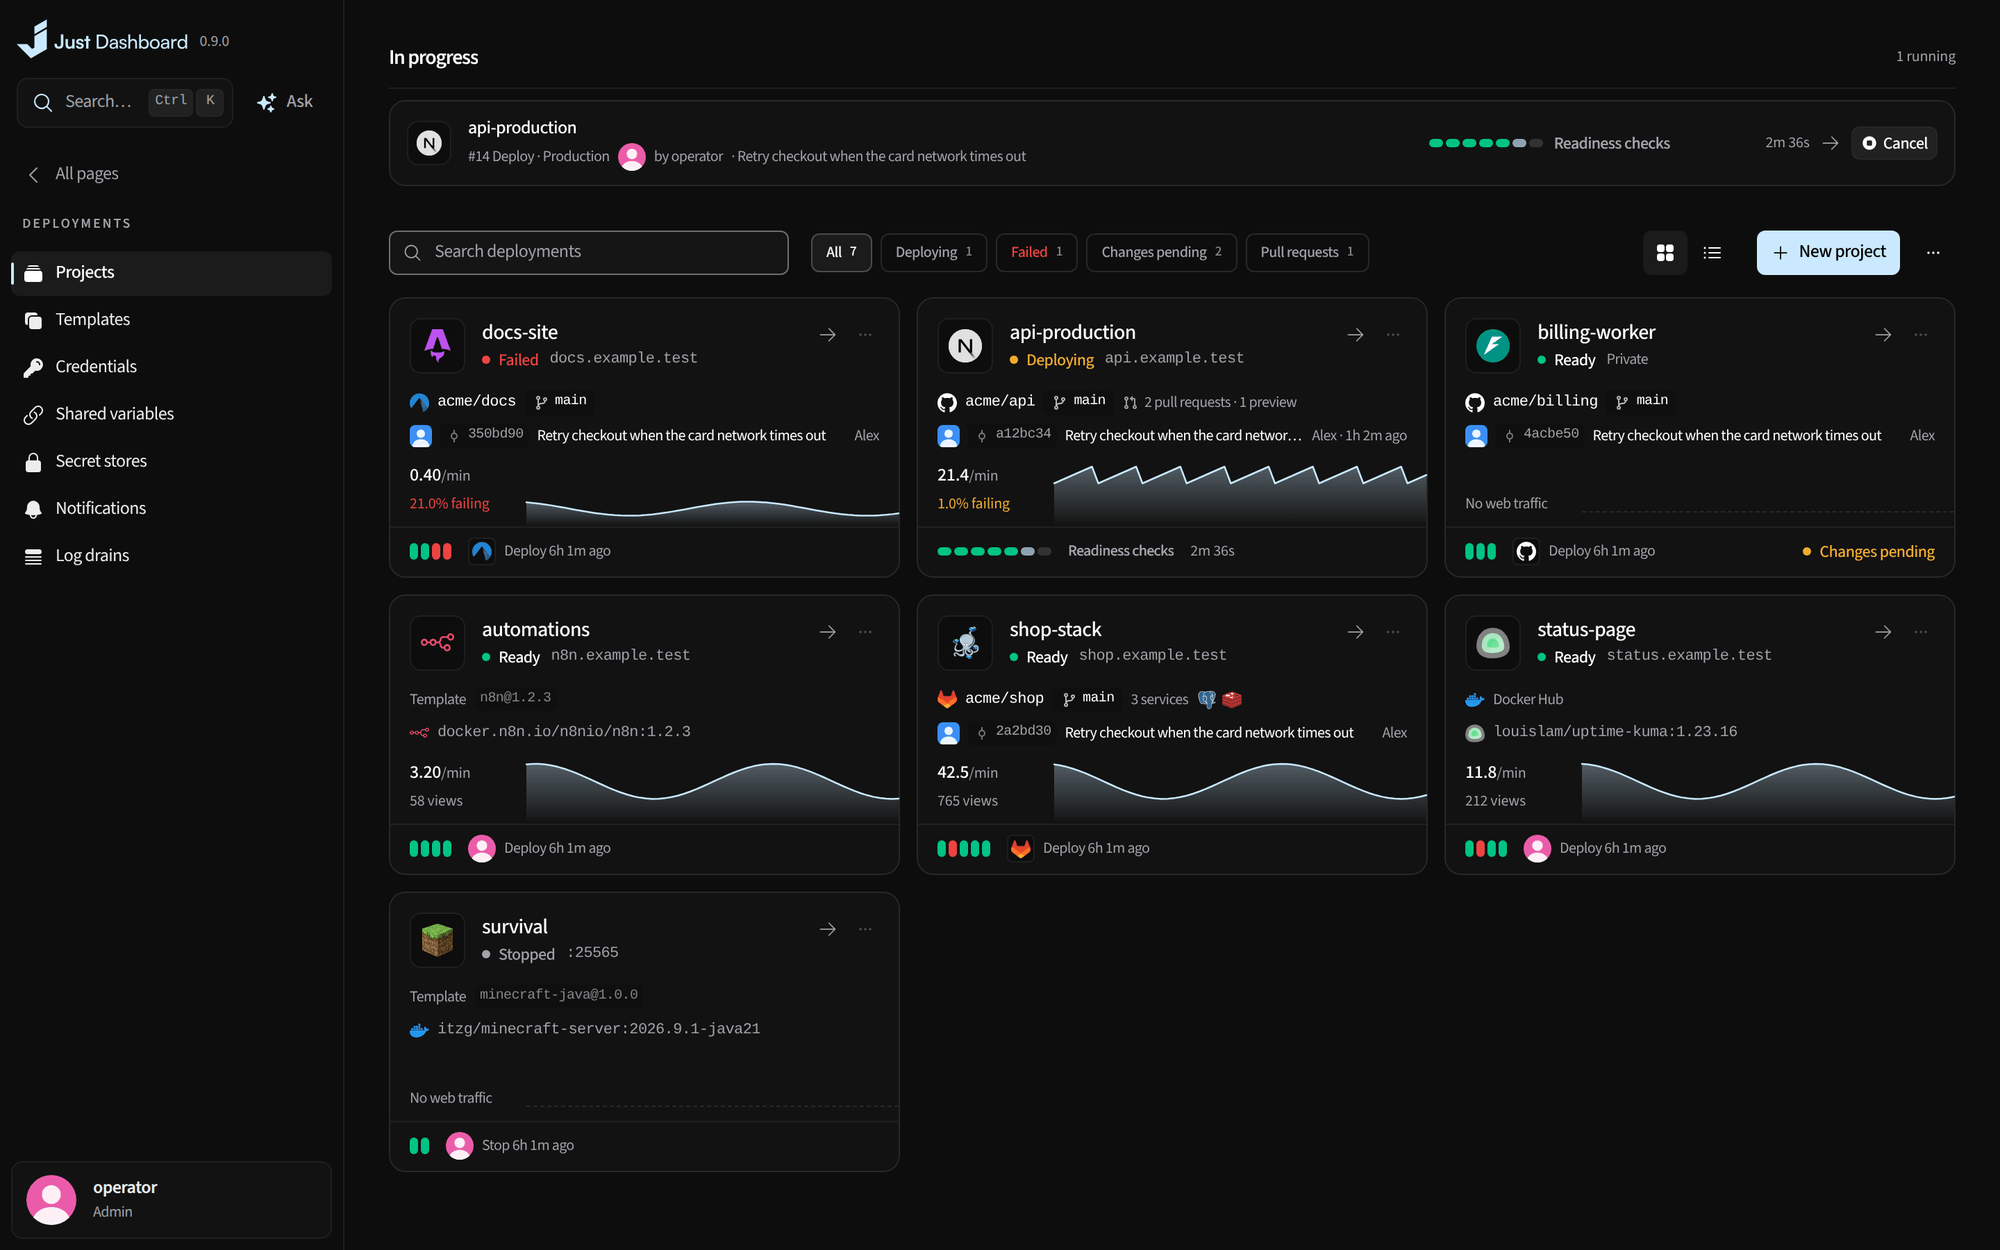
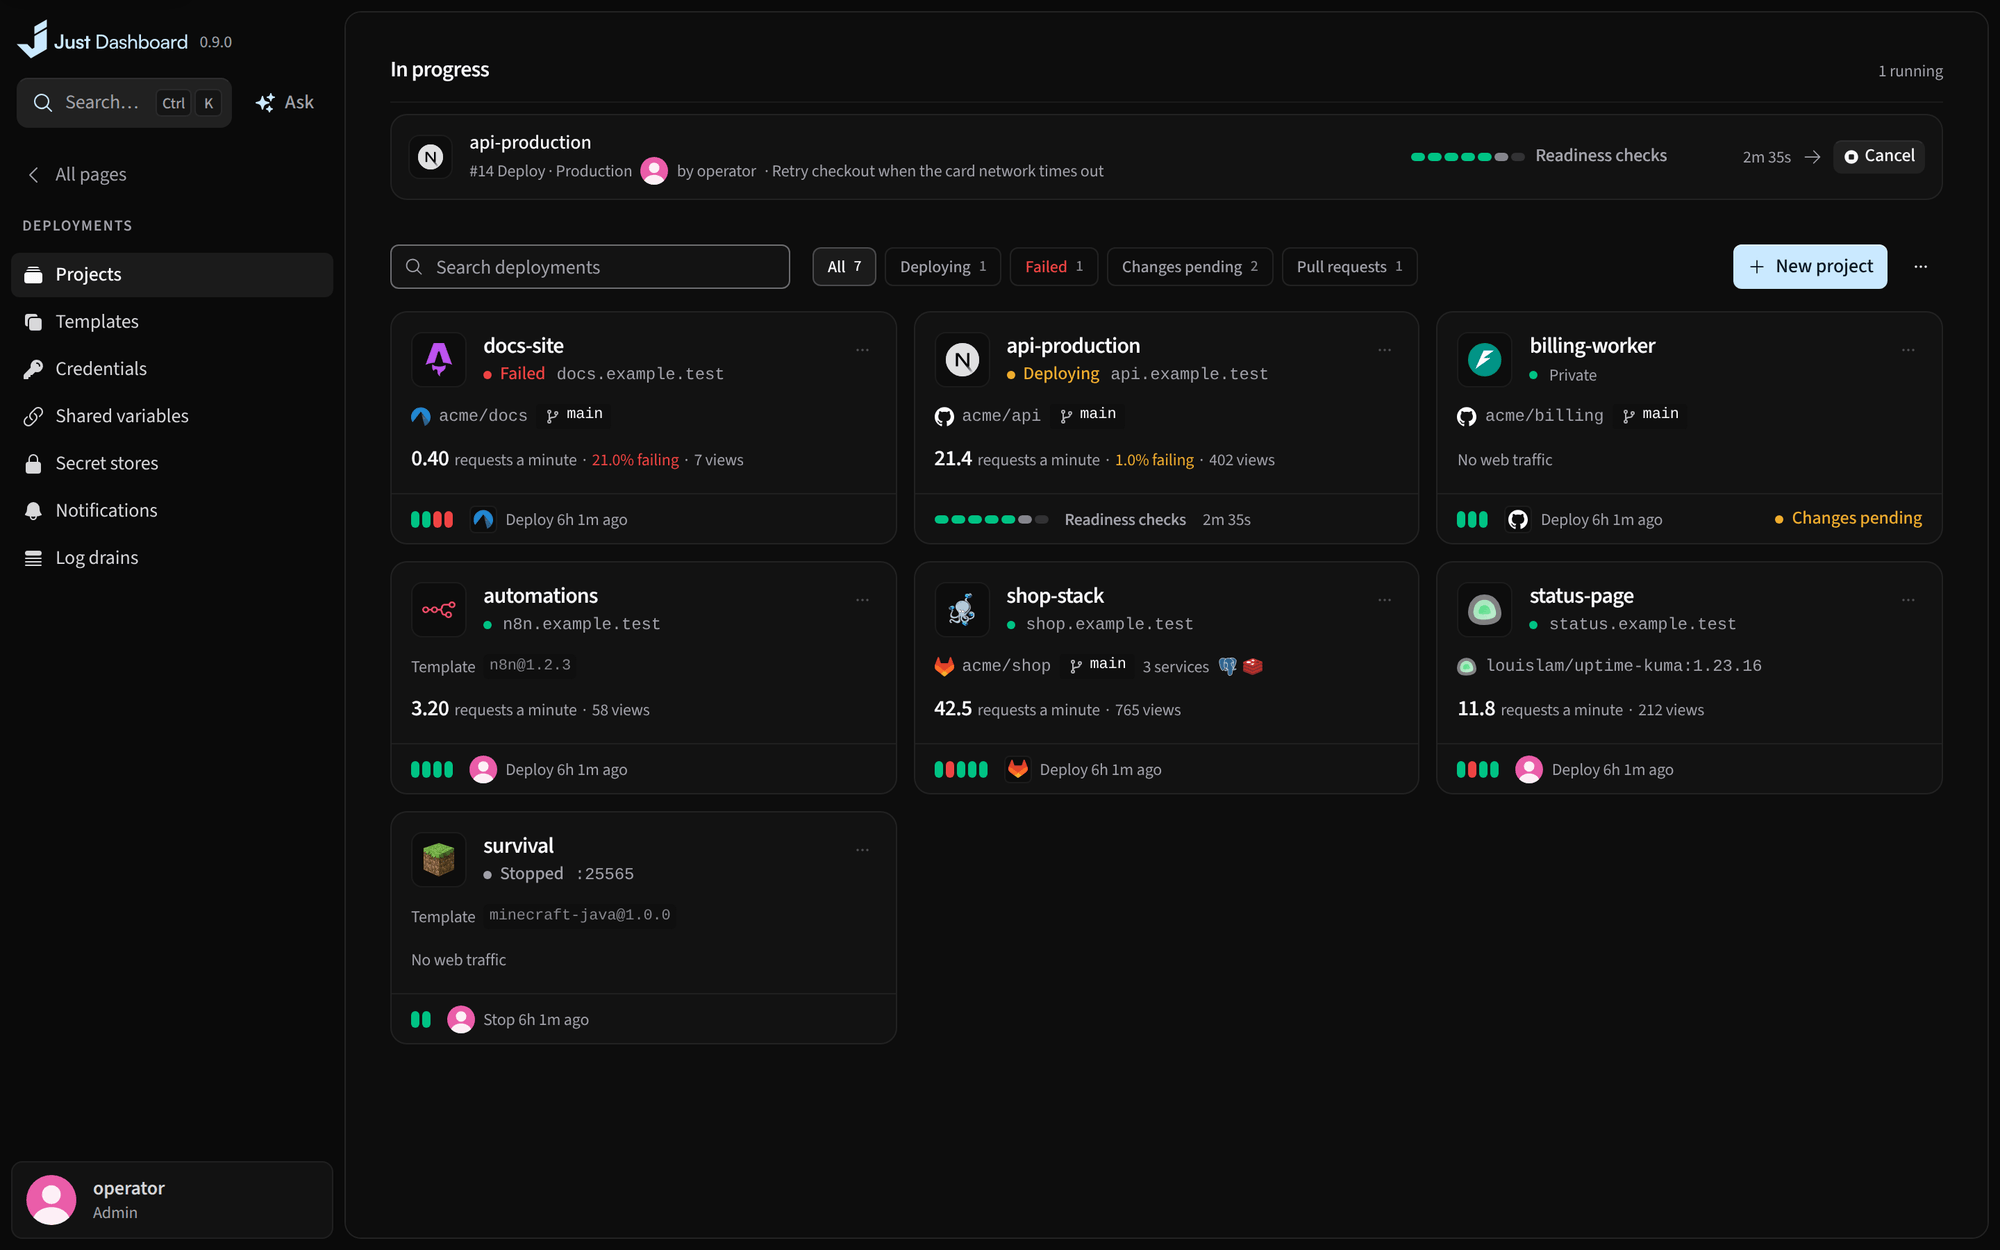
Say a deployment card's last hour in words, without a chart
The operator asked for the traffic chart to leave the fleet's cards and for
the request figures to stay. A card now says its hour on one line under its
source: "0.05 requests a minute · 2 views", the share failing from 1% after
the figure, "No web traffic" for a project with no address on the web. The
figure keeps the name's size and weight. Every card is 168px, and the card
itself is drawn at PROJECT_CARD_HEIGHT, as its placeholders are.

The README's deployments picture is reshot: it still showed the card from
before #579.

diff --git a/frontend/src/components/deploy/fleet-card.tsx b/frontend/src/components/deploy/fleet-card.tsx
@@ -14,7 +14,6 @@ import type {
 import type { useConfirm } from "@/components/confirm-dialog"
 import { CONTROL } from "@/components/choice-row"
 import { BranchChip } from "@/components/git/marks"
-import { Sparkline } from "@/components/sparkline"
 import { ProductGlyph, ProductGlyphs, imageProducts } from "@/components/product-logo"
 import { Status, StatusDot } from "@/components/status-dot"
 import { Tag } from "@/components/tag"
@@ -53,16 +52,18 @@ import { FAILING_NOTICE, failingTone } from "@/components/deploy/fleet"
  * A card is a destination — it opens the project — so it carries the lit edge
  * §16 gives to things you take, and draws the project as what it is, in the
  * colours that are the data's own: the product it runs, where its source
- * lives, how much traffic it is taking and what share of it fails, the last
- * fourteen runs as a strip and, while one is in flight, the release path
- * sweeping and the stage it is at lit.
+ * lives, how many requests a minute it is taking and what share of them fails,
+ * the last fourteen runs as a strip and, while one is in flight, the release
+ * path sweeping and the stage it is at lit.
  *
  * Three weights, read in this order: the name, then the traffic figure, both
  * in the title's size; everything else is the muted hint. The card does not
- * draw the last commit (who wrote what, under its subject) or the open pull
- * requests: the commit line was a sentence nobody read on a card, and a count
- * of pull requests is the project's Overview's to say. The Pull requests chip
- * above the grid still narrows the fleet to the projects that have one.
+ * draw the last commit (who wrote what, under its subject), the open pull
+ * requests or a chart of the hour: the commit line was a sentence nobody read
+ * on a card, a count of pull requests is the project's Overview's to say, and
+ * the chart was a spike nobody read either (25 Nov 2026, the operator's word),
+ * so the hour is said in words. The Pull requests chip above the grid still
+ * narrows the fleet to the projects that have one.
  *
  * The verbs are the project page's own (`useProjectVerbs`), so the card and
  * the project header cannot disagree about what can be done to a project. The
@@ -72,11 +73,11 @@ import { FAILING_NOTICE, failingTone } from "@/components/deploy/fleet"
  */
 
 /**
- * A card's height, which every card keeps whatever it says. Its placeholder,
- * on the fleet and on the Overview, takes the same, so a card lands where its
- * ghost stood (§11).
+ * A card's height, which every card keeps whatever it says. The card is drawn
+ * at it, and its placeholder, on the fleet and on the Overview, takes the
+ * same, so a card lands where its ghost stood (§11).
  */
-export const PROJECT_CARD_HEIGHT = "h-45.5"
+export const PROJECT_CARD_HEIGHT = "h-42"
 
 type Confirm = ReturnType<typeof useConfirm>["confirm"]
 
@@ -334,37 +335,17 @@ function SourceLine({ deployment: d }: { deployment: DeploymentSummary }) {
 }
 
 /**
- * A rate a minute, as the card's one figure: the number in the name's size
- * and weight, its unit small beside it, so the eye goes from the name to the
- * figure and the rest of the card is read only when wanted.
- */
-function Rate({ figure, muted }: { figure: string; muted?: boolean }) {
-  return (
-    <span
-      className={cn(
-        "numeric text-title leading-5 font-semibold tracking-tight",
-        muted ? "text-muted-foreground" : "text-foreground",
-      )}
-    >
-      {figure}
-      <span className="ml-0.5 text-hint font-normal tracking-normal text-muted-foreground">
-        /min
-      </span>
-    </span>
-  )
-}
-
-/**
- * The last hour at the ingress: how many requests a minute and what share
- * failed, then the hour as a line that runs out to the card's edge and stands
- * on the footer's rule. The line keeps its series colour; the only red is the
- * failing share, attached to its figure (§3), and the line rises once when its
- * hour of history lands (§11).
+ * The last hour at the ingress, said in words (D4): how many requests a
+ * minute, with the figure in the name's size and weight so the eye goes from
+ * the name to it; the share that failed, from 1%, attached to the figure in
+ * the colour the fleet's Failing requests tile gives it (§3); then how many
+ * pages were viewed. The views give way first on a narrow card. There is no
+ * chart of the hour (25 Nov 2026): a line of sixty minutes on a card was a
+ * spike over a flat rule, and the figure is what was read.
  *
- * The band is drawn on every card at one height, so a row of cards keeps one
- * height and its footers one baseline. A project with no address on the web —
- * a worker, a game server — says so over a flat rule; one with an address and
- * no hour yet draws the rule beside an empty figure.
+ * The line is drawn on every card at one height, so a row of cards keeps one
+ * height. A project with no address on the web — a worker, a game server —
+ * says so; one with an address and no hour yet says the figure is not in.
  */
 function CardTraffic({
   deployment,
@@ -373,36 +354,49 @@ function CardTraffic({
   deployment: DeploymentSummary
   pulse?: TrafficPulse
 }) {
-  const figure = "flex min-w-18 shrink-0 flex-col justify-end gap-0.5 pb-2"
+  // A flex line lays out no space between its parts, so the spaces between
+  // them are there for the words alone: a screen reader and a copy read
+  // "0.05 requests a minute", not "0.05requests".
+  const line = "flex h-5 min-w-0 items-baseline gap-1 text-hint leading-5 text-muted-foreground"
+  const unit = <span className="shrink-0">requests a minute</span>
   if (pulse?.status !== "available")
     return (
-      <div data-slot="project-traffic" className="flex h-12 min-w-0 items-end gap-3">
-        <span className={cn(figure, "text-hint leading-4 text-muted-foreground")}>
-          {deploymentURL(deployment.endpoint) ? <Rate figure="—" muted /> : "No web traffic"}
-        </span>
-        <span aria-hidden className="-mr-3.5 mb-2.5 flex-1 border-t border-dashed" />
-      </div>
+      <p data-slot="project-traffic" className={line}>
+        {deploymentURL(deployment.endpoint) ? (
+          <>
+            <Figure muted>—</Figure> {unit}
+          </>
+        ) : (
+          "No web traffic"
+        )}
+      </p>
     )
   return (
-    <div data-slot="project-traffic" className="flex h-12 min-w-0 animate-rise items-end gap-3">
-      <span className={figure}>
-        <Rate figure={perMinute(pulse.perMinute)} />
-        {pulse.errorRate >= FAILING_NOTICE ? (
-          <FailingShare rate={pulse.errorRate} className="text-hint leading-4" />
-        ) : (
-          <span className="numeric text-hint leading-4 text-muted-foreground">
-            {plural(pulse.pages, "view")}
-          </span>
-        )}
-      </span>
-      <Sparkline
-        values={pulse.points}
-        width={240}
-        height={48}
-        className="-mr-3.5 h-12 min-w-0 flex-1"
-        label="Requests per minute, last hour"
-      />
-    </div>
+    <p data-slot="project-traffic" className={cn(line, "animate-rise")}>
+      <Figure>{perMinute(pulse.perMinute)}</Figure> {unit}{" "}
+      {pulse.errorRate >= FAILING_NOTICE && (
+        <>
+          <span aria-hidden>·</span>{" "}
+          <FailingShare rate={pulse.errorRate} className="shrink-0" />{" "}
+        </>
+      )}
+      <span aria-hidden>·</span>{" "}
+      <span className="numeric min-w-0 truncate">{plural(pulse.pages, "view")}</span>
+    </p>
+  )
+}
+
+/** The card's one figure, in the name's size and weight. */
+function Figure({ children, muted }: { children: React.ReactNode; muted?: boolean }) {
+  return (
+    <span
+      className={cn(
+        "numeric shrink-0 text-title leading-5 font-semibold tracking-tight",
+        muted ? "text-muted-foreground" : "text-foreground",
+      )}
+    >
+      {children}
+    </span>
   )
 }
 
@@ -443,7 +437,7 @@ export function ProjectCard({
   const recent = deployment.recentRuns ?? []
 
   return (
-    <li className="min-w-0" data-slot="project-card">
+    <li className={cn(PROJECT_CARD_HEIGHT, "min-w-0")} data-slot="project-card">
       {/* Each card lands a beat after the one before it, capped so a fleet
           of forty does not take three seconds. */}
       <BlurFade delay={Math.min(index, 11) * 0.045} className="h-full">
@@ -469,7 +463,7 @@ export function ProjectCard({
                 card draws every part, so a row of them is one height with
                 nothing stretched and no gap opened where one project has
                 less to say than its neighbour. */}
-            <div className="flex min-w-0 flex-col gap-3 px-3.5 pt-3.5">
+            <div className="flex min-w-0 flex-col gap-3 p-3.5">
               {/* The state sits under the name rather than beside it: four
                   cards to a row leave a name beside a state and two verbs
                   about a hundred pixels, and the name is what is read. The

diff --git a/frontend/tests/browser/deploy-projects.spec.ts b/frontend/tests/browser/deploy-projects.spec.ts
@@ -466,6 +466,78 @@ test("a card draws no pull requests, commit or arrow, keeps its height, and the 
   await expect(projects.getByText("storefront", { exact: true })).toBeVisible()
 })
 
+test("a card says its last hour in words, with no chart, at one height in every state", async ({
+  page,
+}) => {
+  await mockProject(page)
+  const card = (id: number, name: string, endpoint?: string) => ({
+    ...deployment,
+    id,
+    name,
+    endpoint,
+    activeRun: undefined,
+  })
+  await page.route("**/api/v1/deploy/?view=fleet", (route) =>
+    json(route, {
+      deployments: [
+        card(1, "storefront", "storefront.example.test"),
+        card(2, "payments-api", "payments.example.test"),
+        card(3, "status-page", "status.example.test"),
+        { ...card(4, "queue-worker"), profile: "worker", liveReleaseId: undefined },
+      ],
+      activeWork: [],
+      slots: { heavyUsed: 0, heavyCapacity: 2, lightUsed: 0, lightCapacity: 4 },
+    }),
+  )
+  const hour = Array.from({ length: 60 }, (_, i) => (i === 20 ? 3 : 0))
+  await page.route("**/api/v1/deploy/traffic", (route) =>
+    json(route, {
+      "1": { status: "available", perMinute: 0.05, errorRate: 0, pages: 2, points: hour },
+      "2": { status: "available", perMinute: 3.2, errorRate: 0.07, pages: 40, points: hour },
+    }),
+  )
+  await page.setViewportSize({ width: 1280, height: 1000 })
+  await page.goto("/deploy")
+  const projects = page.getByRole("list", { name: "Deployment projects" })
+  const cards = projects.locator(":scope > li")
+  await expect(cards).toHaveCount(4)
+  // The fleet orders its cards by state, so each is found by its name.
+  const traffic = (name: string) =>
+    cards
+      .filter({ has: page.getByRole("link", { name, exact: true }) })
+      .locator("[data-slot=project-traffic]")
+  // The figure and the views are kept; the hour's chart is not (25 Nov 2026).
+  await expect(traffic("storefront")).toHaveText("0.05 requests a minute · 2 views")
+  await expect(traffic("payments-api")).toHaveText(
+    "3.20 requests a minute · 7.0% failing · 40 views",
+  )
+  await expect(traffic("payments-api").getByText("7.0% failing")).toHaveClass(/text-destructive/)
+  await expect(traffic("status-page")).toHaveText("— requests a minute")
+  await expect(traffic("queue-worker")).toHaveText("No web traffic")
+  await expect(projects.getByRole("img", { name: "Requests per minute, last hour" })).toHaveCount(0)
+  await expect(projects.locator("[data-slot=project-traffic] svg")).toHaveCount(0)
+
+  // Every card is one height, and nothing in it is stretched or spills: the
+  // footer starts the body's padding under the traffic line on each of them.
+  const boxes = await cards.evaluateAll((all) =>
+    all.map((li) => {
+      const line = li.querySelector("[data-slot=project-traffic]")!
+      const footer = line.parentElement!.nextElementSibling!
+      return {
+        height: li.getBoundingClientRect().height,
+        gap: footer.getBoundingClientRect().top - line.getBoundingClientRect().bottom,
+        spill: li.getBoundingClientRect().bottom - footer.getBoundingClientRect().bottom,
+      }
+    }),
+  )
+  for (const box of boxes) {
+    expect(box.height).toBe(boxes[0].height)
+    expect(box.gap).toBe(14)
+    expect(box.spill).toBeGreaterThanOrEqual(0)
+    expect(box.spill).toBeLessThanOrEqual(1)
+  }
+})
+
 test("archived list can be permanently deleted with confirmation and errors remain reviewable", async ({
   page,
 }, testInfo) => {

diff --git a/docs/internal/deployments/implementation.md b/docs/internal/deployments/implementation.md
@@ -2774,20 +2774,21 @@ stopped and not deployed. Automatic fleet attention rules and their list were re
 The fleet is cards only: the grid/list switch went in 0.9.1 at the operator's request. A card
 carries the project drawn as itself (`ProjectMark`), its state (Ready is its dot alone; any other
 state says its word) and its address, its source on one line (the forge, repository and branch; the
-image it pulls; or the Compose stack and its services' products), its hour of traffic from
-`GET /deploy/traffic`, its last fourteen runs (`recentRuns`) and who started the last one, and the
-verbs the project context row offers (`useProjectVerbs`) behind its `⋯`, with no arrow: the card
-and its name open the project. It draws neither the last commit nor the open pull requests: both are
-the project's Overview's to say, and the Pull requests chip, fed by `GET /deploy/pull-requests`,
-still narrows the fleet to the projects that have one. The name and the traffic figure are the
-card's two weights, in the title's size; the rest is the muted hint. Every card draws every part at
-one fixed height (`PROJECT_CARD_HEIGHT`, which the fleet's and the Overview's placeholders share),
-so a row of cards is one height with nothing stretched: the traffic band says "No web traffic" over
-a flat rule for a project with no address on the web, and the footer never wraps, its words
-truncating instead. The fleet is read every five seconds, every two
-while any run is in flight (`RUN_IN_FLIGHT_POLL_MS`, as a project's detail and run list are), and the
-traffic every thirty; the archive is read once, for the count beside its link, and again when a card
-archives its project, because each archived row costs the server a history read.
+image it pulls; or the Compose stack and its services' products), its last hour of traffic from
+`GET /deploy/traffic` in words (requests a minute, the share failing from 1%, and the page views),
+its last fourteen runs (`recentRuns`) and who started the last one, and the verbs the project
+context row offers (`useProjectVerbs`) behind its `⋯`, with no arrow: the card and its name open the
+project. It draws neither the last commit, the open pull requests nor a chart of the hour (the
+operator removed each in 0.9.1): the first two are the project's Overview's to say, and the Pull
+requests chip, fed by `GET /deploy/pull-requests`, still narrows the fleet to the projects that have
+one. The name and the traffic figure are the card's two weights, in the title's size; the rest is
+the muted hint. The card is drawn at one fixed height (`PROJECT_CARD_HEIGHT`, which the fleet's and
+the Overview's placeholders share) and every part of it at its own, so a row of cards is one height
+with nothing stretched: the traffic line says "No web traffic" for a project with no address on the
+web, and the footer never wraps, its words truncating instead. The fleet is read every five seconds,
+every two while any run is in flight (`RUN_IN_FLIGHT_POLL_MS`, as a project's detail and run list
+are), and the traffic every thirty; the archive is read once, for the count beside its link, and
+again when a card archives its project, because each archived row costs the server a history read.
 `/deploy?view=archived` lists archived projects drawn as what they deployed (`ArchivedDeployment`),
 with Restore (`POST /deploy/{id}/unarchive`) and permanent deletion. `/deploy/notifications` holds
 the fleet-level channels: it reads the list, which carries each channel's recent history, every ten
